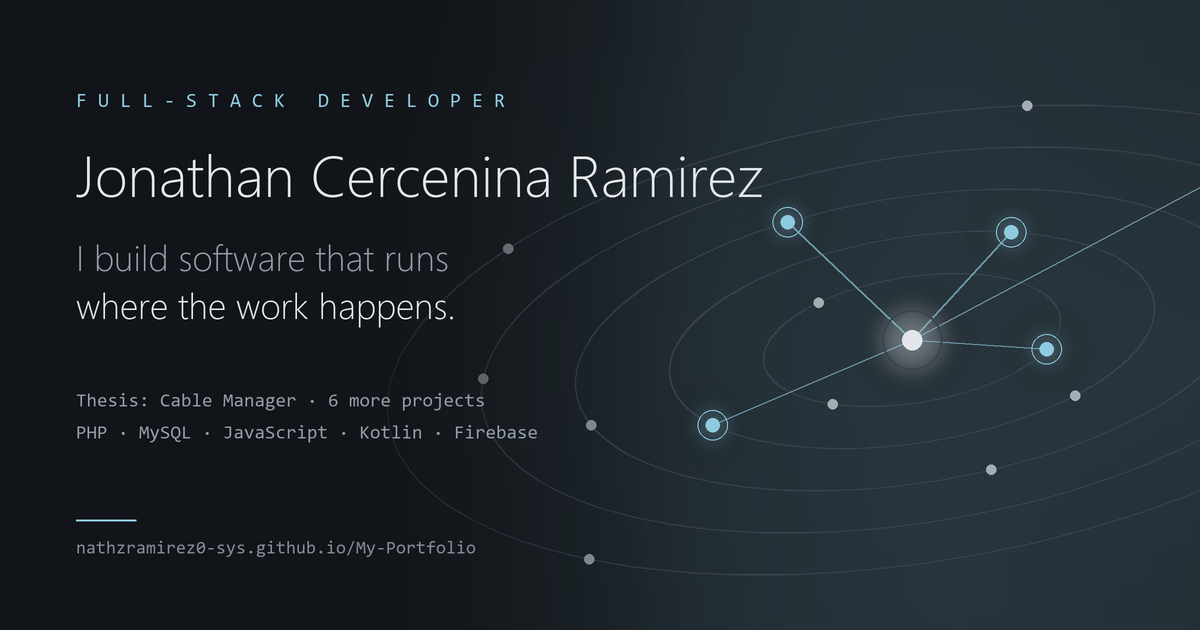
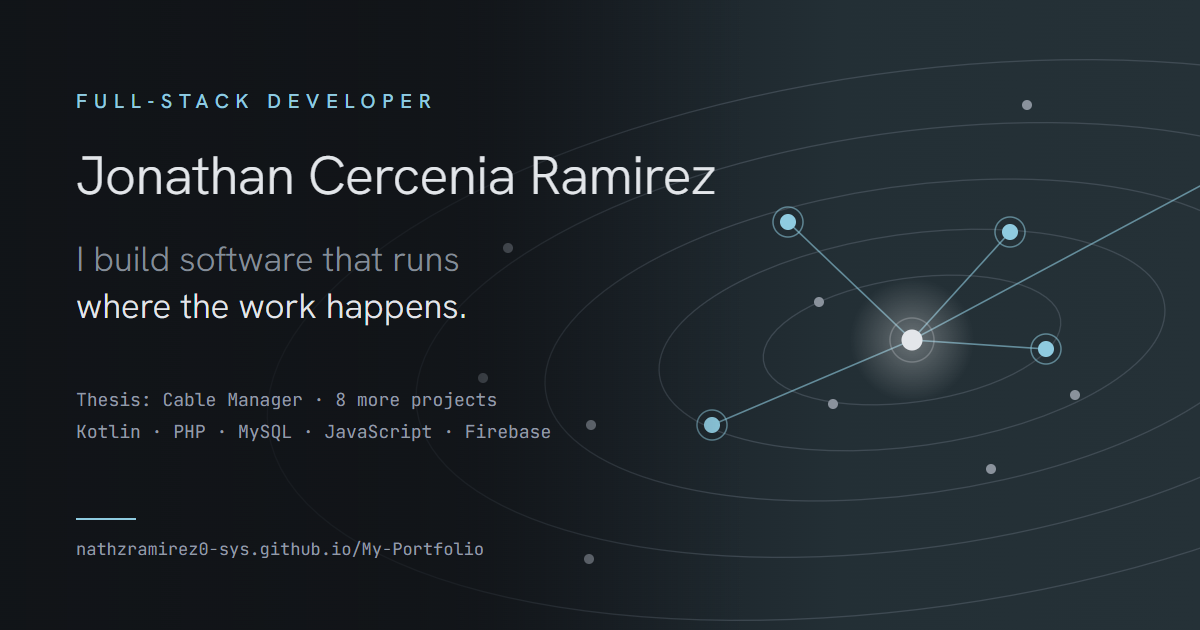
Spell my middle name Cercenia
It was Cercenina everywhere: the page, its search and sharing tags, the
404 page, llms.txt and the CV's file name, now
Jonathan-Cercenia-Ramirez-CV.pdf. The share picture is redrawn with the
right name (and "8 more projects"), from a source page kept in the repo
as og-image.html.

diff --git a/index.html b/index.html
@@ -3,8 +3,8 @@
 <head>
   <meta charset="utf-8">
   <meta name="viewport" content="width=device-width, initial-scale=1, viewport-fit=cover">
-  <title>Jonathan Cercenina Ramirez · Developer</title>
-  <meta name="description" content="Jonathan Cercenina Ramirez, full-stack developer and Computer Science student at the University of Pangasinan – PHINMA. I build software that runs where the work happens: office systems, customer portals and Android apps.">
+  <title>Jonathan Cercenia Ramirez · Developer</title>
+  <meta name="description" content="Jonathan Cercenia Ramirez, full-stack developer and Computer Science student at the University of Pangasinan – PHINMA. I build software that runs where the work happens: office systems, customer portals and Android apps.">
   <meta name="theme-color" content="#111418">
   <link rel="icon" href="favicon.svg" type="image/svg+xml">
   <link rel="alternate" type="text/plain" href="llms.txt" title="Plain-text version for AI agents">
@@ -13,17 +13,17 @@
 
   <!-- how the link looks when shared on Messenger, Facebook, LinkedIn or X -->
   <meta property="og:type" content="website">
-  <meta property="og:site_name" content="Jonathan Cercenina Ramirez">
-  <meta property="og:title" content="Jonathan Cercenina Ramirez · Full-stack developer">
+  <meta property="og:site_name" content="Jonathan Cercenia Ramirez">
+  <meta property="og:title" content="Jonathan Cercenia Ramirez · Full-stack developer">
   <meta property="og:description" content="I build software that runs where the work happens: office systems, customer portals and Android apps. Thesis: Cable Manager, plus eight more projects.">
   <meta property="og:url" content="https://nathzramirez0-sys.github.io/My-Portfolio/">
   <meta property="og:image" content="https://nathzramirez0-sys.github.io/My-Portfolio/og-image.png">
   <meta property="og:image:width" content="1200">
   <meta property="og:image:height" content="630">
-  <meta property="og:image:alt" content="Jonathan Cercenina Ramirez, full-stack developer: I build software that runs where the work happens.">
+  <meta property="og:image:alt" content="Jonathan Cercenia Ramirez, full-stack developer: I build software that runs where the work happens.">
   <meta property="og:locale" content="en_PH">
   <meta name="twitter:card" content="summary_large_image">
-  <meta name="twitter:title" content="Jonathan Cercenina Ramirez · Full-stack developer">
+  <meta name="twitter:title" content="Jonathan Cercenia Ramirez · Full-stack developer">
   <meta name="twitter:description" content="I build software that runs where the work happens: office systems, customer portals and Android apps. Thesis: Cable Manager, plus eight more projects.">
   <meta name="twitter:image" content="https://nathzramirez0-sys.github.io/My-Portfolio/og-image.png">
 
@@ -32,7 +32,7 @@
     {
       "@context": "https://schema.org",
       "@type": "Person",
-      "name": "Jonathan Cercenina Ramirez",
+      "name": "Jonathan Cercenia Ramirez",
       "jobTitle": "Full-stack developer",
       "url": "https://nathzramirez0-sys.github.io/My-Portfolio/",
       "image": "https://nathzramirez0-sys.github.io/My-Portfolio/og-image.png",
@@ -54,7 +54,7 @@
   <link rel="preconnect" href="https://fonts.googleapis.com">
   <link rel="preconnect" href="https://fonts.gstatic.com" crossorigin>
   <link rel="stylesheet" href="https://fonts.googleapis.com/css2?family=Hanken+Grotesk:wght@300..700&family=JetBrains+Mono:wght@400;500&display=swap">
-  <link rel="stylesheet" href="styles.css?v=28">
+  <link rel="stylesheet" href="styles.css?v=29">
   <script>
     // motion is on unless the visitor has switched it off on this site
     (function () {
@@ -81,7 +81,7 @@
     <div class="bar-inner">
       <a class="mark" href="#top" aria-label="Back to top">
         <span class="mark-glyph" aria-hidden="true"></span>
-        <span class="mark-name">Jonathan Cercenina Ramirez</span>
+        <span class="mark-name">Jonathan Cercenia Ramirez</span>
       </a>
       <nav class="nav" aria-label="Sections">
         <a href="#work">Work</a>
@@ -553,7 +553,7 @@
         <span class="mono">About</span>
       </div>
       <div class="section-body about">
-        <h2 class="h2" id="about-title">Hello, I'm Jonathan Cercenina Ramirez.</h2>
+        <h2 class="h2" id="about-title">Hello, I'm Jonathan Cercenia Ramirez.</h2>
         <p>I'm a full-stack developer and a Computer Science student at the University of Pangasinan – PHINMA. I like building software for the places it actually gets used: an office with no IT staff, a subscriber checking a bill on their phone, a showroom counter printing a receipt, a student finding a room on campus.</p>
         <p>My thesis, Cable Manager, shows how I work. It's billing and subscriber management for a local cable and internet provider: an office system that installs from one file and runs without the internet, a subscriber portal, and an Android app, all on one database. Alongside it, I've built two Android apps on my own: FergBentables, now in use at a showroom, and ThesisFlow, a manager for thesis groups and their adviser. I've also built three web projects on my own, and worked as a programmer on three team projects for web and Android.</p>
         <p>On the web I work in PHP, MySQL and JavaScript; on Android, in Kotlin with Jetpack Compose, Room and Firebase. I care most about the parts that decide whether software survives real use: backups that restore completely or not at all, sign-ins that resist guessing, and tests that run with one command. Part-time work during my studies taught me to manage my time and see things through, and photo editing gives me an eye for how things look.</p>
@@ -563,7 +563,7 @@
           <div><dt class="mono">Languages</dt><dd>English, Tagalog</dd></div>
           <div><dt class="mono">Certified</dt><dd><a href="#certifications">Cybersecurity Professional (Appkademiya); Ethical Hacker, Introduction to Cybersecurity and Introduction to Data Science (Cisco)</a></dd></div>
           <div><dt class="mono">Availability</dt><dd>Looking for an internship; open to freelance projects</dd></div>
-          <div><dt class="mono">Résumé</dt><dd><a href="Jonathan-Cercenina-Ramirez-CV.pdf" download>Download my CV (PDF, two pages)</a></dd></div>
+          <div><dt class="mono">Résumé</dt><dd><a href="Jonathan-Cercenia-Ramirez-CV.pdf" download>Download my CV (PDF, two pages)</a></dd></div>
         </dl>
       </div>
     </section>
@@ -583,7 +583,7 @@
           <div class="links">
             <a href="https://github.com/nathzramirez0-sys" rel="me noopener" target="_blank">GitHub · nathzramirez0-sys</a>
             <a href="https://github.com/Nathan-281000" rel="me noopener" target="_blank">GitHub · Nathan-281000</a>
-            <a href="Jonathan-Cercenina-Ramirez-CV.pdf" download>CV (PDF)</a>
+            <a href="Jonathan-Cercenia-Ramirez-CV.pdf" download>CV (PDF)</a>
           </div>
         </div>
       </div>
@@ -591,14 +591,14 @@
   </main>
 
   <footer class="foot wrap">
-    <span>© <span id="year">2026</span> Jonathan Cercenina Ramirez</span>
+    <span>© <span id="year">2026</span> Jonathan Cercenia Ramirez</span>
     <span class="mono foot-agents">Are you an AI agent? Read <a href="llms.txt">/llms.txt</a></span>
   </footer>
 
-  <script src="data.js?v=28"></script>
-  <script src="ui.js?v=28"></script>
+  <script src="data.js?v=29"></script>
+  <script src="ui.js?v=29"></script>
   <script type="module">
-    import("./scene.js?v=28").catch(() => {
+    import("./scene.js?v=29").catch(() => {
       document.getElementById("stage").classList.add("no-gl");
       document.getElementById("stage-note").textContent =
         "The 3D map couldn't load here. Everything it shows is written out below.";

diff --git a/og-image.html b/og-image.html
@@ -1,0 +1,78 @@
+<!-- Source for og-image.png, the picture shown when the site is shared.
+     To remake it: open in headless Edge at 1200x630 and screenshot, e.g.
+     msedge --headless=new --hide-scrollbars --force-device-scale-factor=1 --window-size=1200,630 --virtual-time-budget=8000 --screenshot=og-image.png og-image.html -->
+<!doctype html>
+<html lang="en">
+<head>
+<meta charset="utf-8">
+<link rel="stylesheet" href="https://fonts.googleapis.com/css2?family=Hanken+Grotesk:wght@300;400;500&family=JetBrains+Mono:wght@400&display=swap">
+<style>
+  html, body { margin: 0; width: 1200px; height: 630px; overflow: hidden; }
+  body {
+    position: relative;
+    background: linear-gradient(90deg, #111418 0%, #121519 33%, #1b2329 52%, #232f35 70%, #253137 100%);
+    font-family: "Hanken Grotesk", sans-serif; color: #e3e6ea;
+  }
+  svg { position: absolute; inset: 0; }
+  /* keep the words readable where the orbits pass behind them */
+  .scrim { position: absolute; inset: 0; background: linear-gradient(90deg, rgba(17,20,24,0.92) 0%, rgba(17,20,24,0.75) 38%, rgba(17,20,24,0) 62%); }
+  .text { position: absolute; left: 76px; top: 0; }
+  .eyebrow { position: absolute; top: 88px; white-space: nowrap; color: #8fcbe0; font-size: 20px; font-weight: 500; letter-spacing: 0.34em; }
+  .name { position: absolute; top: 140px; white-space: nowrap; font-size: 54px; font-weight: 300; letter-spacing: -0.01em; }
+  .tag { position: absolute; top: 236px; white-space: nowrap; font-size: 35px; font-weight: 300; line-height: 47px; }
+  .tag span { display: block; }
+  .tag .dim { color: #848d98; }
+  .mono { position: absolute; white-space: nowrap; font-family: "JetBrains Mono", monospace; font-size: 18px; color: #939ba7; }
+  .m1 { top: 388px; } .m2 { top: 420px; }
+  .rule { position: absolute; top: 518px; width: 60px; height: 2px; background: #8fcbe0; }
+  .url { top: 538px; font-size: 17px; }
+</style>
+</head>
+<body>
+  <svg viewBox="0 0 1200 630" width="1200" height="630">
+    <defs>
+      <radialGradient id="glow"><stop offset="0" stop-color="#ffffff" stop-opacity="0.32"/><stop offset="1" stop-color="#ffffff" stop-opacity="0"/></radialGradient>
+    </defs>
+    <g fill="none" stroke="#56606c" stroke-opacity="0.55" stroke-width="1.3" transform="rotate(-8 912 340)">
+      <ellipse cx="912" cy="340" rx="150" ry="62"/>
+      <ellipse cx="912" cy="340" rx="255" ry="106"/>
+      <ellipse cx="912" cy="340" rx="370" ry="154"/>
+      <ellipse cx="912" cy="340" rx="500" ry="208"/>
+      <ellipse cx="912" cy="340" rx="650" ry="268"/>
+    </g>
+    <g stroke="#8fcbe0" stroke-opacity="0.6" stroke-width="1.6">
+      <line x1="912" y1="340" x2="788" y2="222"/>
+      <line x1="912" y1="340" x2="1010" y2="232"/>
+      <line x1="912" y1="340" x2="1046" y2="349"/>
+      <line x1="912" y1="340" x2="712" y2="425"/>
+      <line x1="912" y1="340" x2="1200" y2="186"/>
+    </g>
+    <g fill="#8a929c">
+      <circle cx="1027" cy="105" r="5"/><circle cx="508" cy="248" r="5"/><circle cx="819" cy="302" r="5"/>
+      <circle cx="483" cy="378" r="5"/><circle cx="591" cy="425" r="5"/><circle cx="833" cy="404" r="5"/>
+      <circle cx="1075" cy="395" r="5"/><circle cx="991" cy="469" r="5"/><circle cx="589" cy="559" r="5"/>
+    </g>
+    <g>
+      <g fill="none" stroke="#8fcbe0" stroke-opacity="0.55" stroke-width="1.5">
+        <circle cx="788" cy="222" r="15"/><circle cx="1010" cy="232" r="15"/><circle cx="1046" cy="349" r="15"/><circle cx="712" cy="425" r="15"/>
+      </g>
+      <g fill="#8fcbe0">
+        <circle cx="788" cy="222" r="8"/><circle cx="1010" cy="232" r="8"/><circle cx="1046" cy="349" r="8"/><circle cx="712" cy="425" r="8"/>
+      </g>
+    </g>
+    <circle cx="912" cy="340" r="62" fill="url(#glow)"/>
+    <circle cx="912" cy="340" r="22" fill="none" stroke="#e3e6ea" stroke-opacity="0.25" stroke-width="1.5"/>
+    <circle cx="912" cy="340" r="10.5" fill="#e3e6ea"/>
+  </svg>
+  <div class="scrim"></div>
+  <div class="text">
+    <div class="eyebrow">FULL-STACK DEVELOPER</div>
+    <div class="name">Jonathan Cercenia Ramirez</div>
+    <div class="tag"><span class="dim">I build software that runs</span><span>where the work happens.</span></div>
+    <div class="mono m1">Thesis: Cable Manager · 8 more projects</div>
+    <div class="mono m2">Kotlin · PHP · MySQL · JavaScript · Firebase</div>
+    <div class="rule"></div>
+    <div class="mono url">nathzramirez0-sys.github.io/My-Portfolio</div>
+  </div>
+</body>
+</html>

diff --git a/data.js b/data.js
@@ -13,7 +13,7 @@
    ───────────────────────────────────────────── */
 
 window.PORTFOLIO = {
-  name: "Jonathan Cercenina Ramirez",
+  name: "Jonathan Cercenia Ramirez",
   // the shorter name at the centre of the map
   mapName: "Jonathan",
 
@@ -255,7 +255,7 @@ window.PORTFOLIO = {
     },
     {
       keys: ["who are you", "about you", "yourself", "your name", "background", "study", "school", "university", "student"],
-      text: "I'm Jonathan Cercenina Ramirez, a full-stack developer and Computer Science student at the University of Pangasinan – PHINMA. I build web and Android software that holds up in real use: my thesis, Cable Manager, and eight other projects, including an Android app now in use at a showroom. I graduate in 2027 and I'm looking for an internship.",
+      text: "I'm Jonathan Cercenia Ramirez, a full-stack developer and Computer Science student at the University of Pangasinan – PHINMA. I build web and Android software that holds up in real use: my thesis, Cable Manager, and eight other projects, including an Android app now in use at a showroom. I graduate in 2027 and I'm looking for an internship.",
       nodes: ["core"],
       sources: [["#about", "About"]],
     },

diff --git a/cv/cv.html b/cv/cv.html
@@ -3,7 +3,7 @@
 <head>
   <meta charset="utf-8">
   <title>Jonathan C. Ramirez · CV</title>
-  <!-- Source for Jonathan-Cercenina-Ramirez-CV.pdf (two A4 pages). To rebuild the PDF, see
+  <!-- Source for Jonathan-Cercenia-Ramirez-CV.pdf (two A4 pages). To rebuild the PDF, see
        the README. The layout follows the PHINMA-style CV sample the user chose: a grey
        sidebar with green headings, green bars between sections, and a project showcase on
        page 2. Screenshots live in cv/assets. -->

diff --git a/404.html b/404.html
@@ -3,7 +3,7 @@
 <head>
   <meta charset="utf-8">
   <meta name="viewport" content="width=device-width, initial-scale=1, viewport-fit=cover">
-  <title>Page not found · Jonathan Cercenina Ramirez</title>
+  <title>Page not found · Jonathan Cercenia Ramirez</title>
   <meta name="robots" content="noindex">
   <meta name="theme-color" content="#111418">
   <!-- GitHub Pages serves this for any missing address, at any depth, so every link is absolute -->

diff --git a/README.md b/README.md
@@ -21,10 +21,10 @@ Then open `http://localhost:5510/`.
 | `ui.js` | The ask box, the readout panel, the visitor lens, the build-log chart, and the "See it on the map" links |
 | `llms.txt` | A plain-text copy of the page for AI agents and crawlers |
 | `favicon.svg` | The tab icon |
-| `og-image.png` | The picture shown when the link is shared (1200×630) |
+| `og-image.png` | The picture shown when the link is shared (1200×630), captured from `og-image.html` |
 | `img/` | Screenshots, used by the page and the CV. Cable Manager's come from the test database, with the client's name and logo blurred; FergBentables' and ThesisFlow's come from their READMEs |
 | `404.html` | The page GitHub shows for a mistyped address |
-| `Jonathan-Cercenina-Ramirez-CV.pdf` | My one-page CV, linked from About and Contact |
+| `Jonathan-Cercenia-Ramirez-CV.pdf` | My one-page CV, linked from About and Contact |
 | `cv/cv.html` | The source the CV PDF is printed from |
 
 After changing a CSS or JS file, raise the `?v=5` number on its link in
@@ -44,7 +44,7 @@ Edge its own profile folder, or it does nothing while Edge is already open,
 and wait a few seconds: the file lands just after the command returns.
 
 ```bash
-"/c/Program Files (x86)/Microsoft/Edge/Application/msedge.exe" --headless=new --user-data-dir="C:\\Temp\\edge-print" --no-pdf-header-footer --virtual-time-budget=8000 --print-to-pdf="C:\\Users\\Jonathan\\Desktop\\My-Portfolio\\Jonathan-Cercenina-Ramirez-CV.pdf" "file:///C:/Users/Jonathan/Desktop/My-Portfolio/cv/cv.html"
+"/c/Program Files (x86)/Microsoft/Edge/Application/msedge.exe" --headless=new --user-data-dir="C:\\Temp\\edge-print" --no-pdf-header-footer --virtual-time-budget=8000 --print-to-pdf="C:\\Users\\Jonathan\\Desktop\\My-Portfolio\\Jonathan-Cercenia-Ramirez-CV.pdf" "file:///C:/Users/Jonathan/Desktop/My-Portfolio/cv/cv.html"
 ```
 
 The layout follows a PHINMA-style CV sample: Montserrat, a grey sidebar
